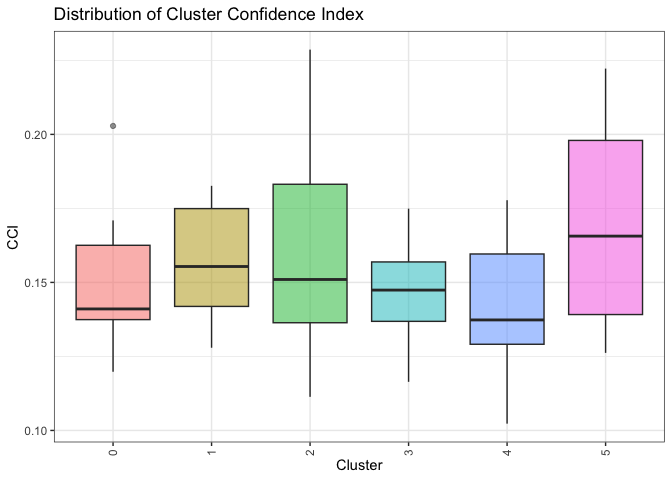
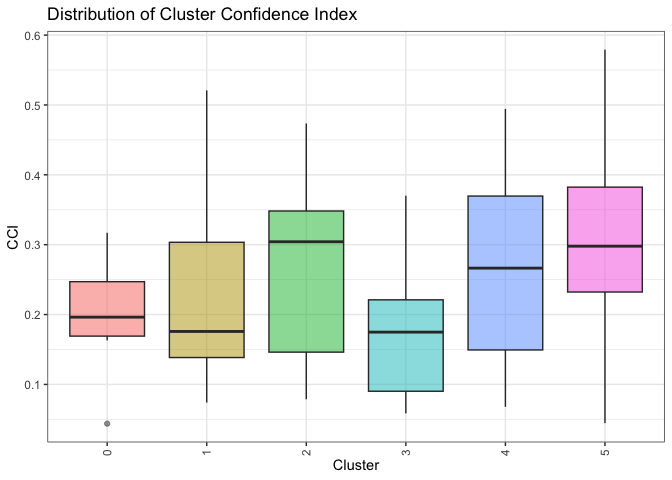
Changes prior to update

diff --git a/NEWS.md b/NEWS.md
@@ -2,9 +2,15 @@
 
 **Changes to existing functionality:**
 
+    * `gbm.sc` now returns `scores` instead of `V` to be more consistent with the model defined in the paper.
+
 **Bug fixes:**
 
-    * TODO 
+    * For `gbm.sc`, the case `M=1` now works. 
+
+**Other changes:**
+
+    * Improved documentation for `gbm.sc`. 
 
 ## Version 1.0.0 May 25, 2023
 

diff --git a/README.md b/README.md
@@ -50,6 +50,8 @@ out <- gbm.sc(Y,M=10)
     ## Iteration:  16 . Objective= -240267.4 
     ## Iteration:  17 . Objective= -240267
 
+    ## For users of newer versions (1.0.1+): the `scores` matrix now contains factor scores, the `V` matrix is UNSCALED scores.
+
 To use the projection method (faster version based on subsampling), use
 
 ``` r
